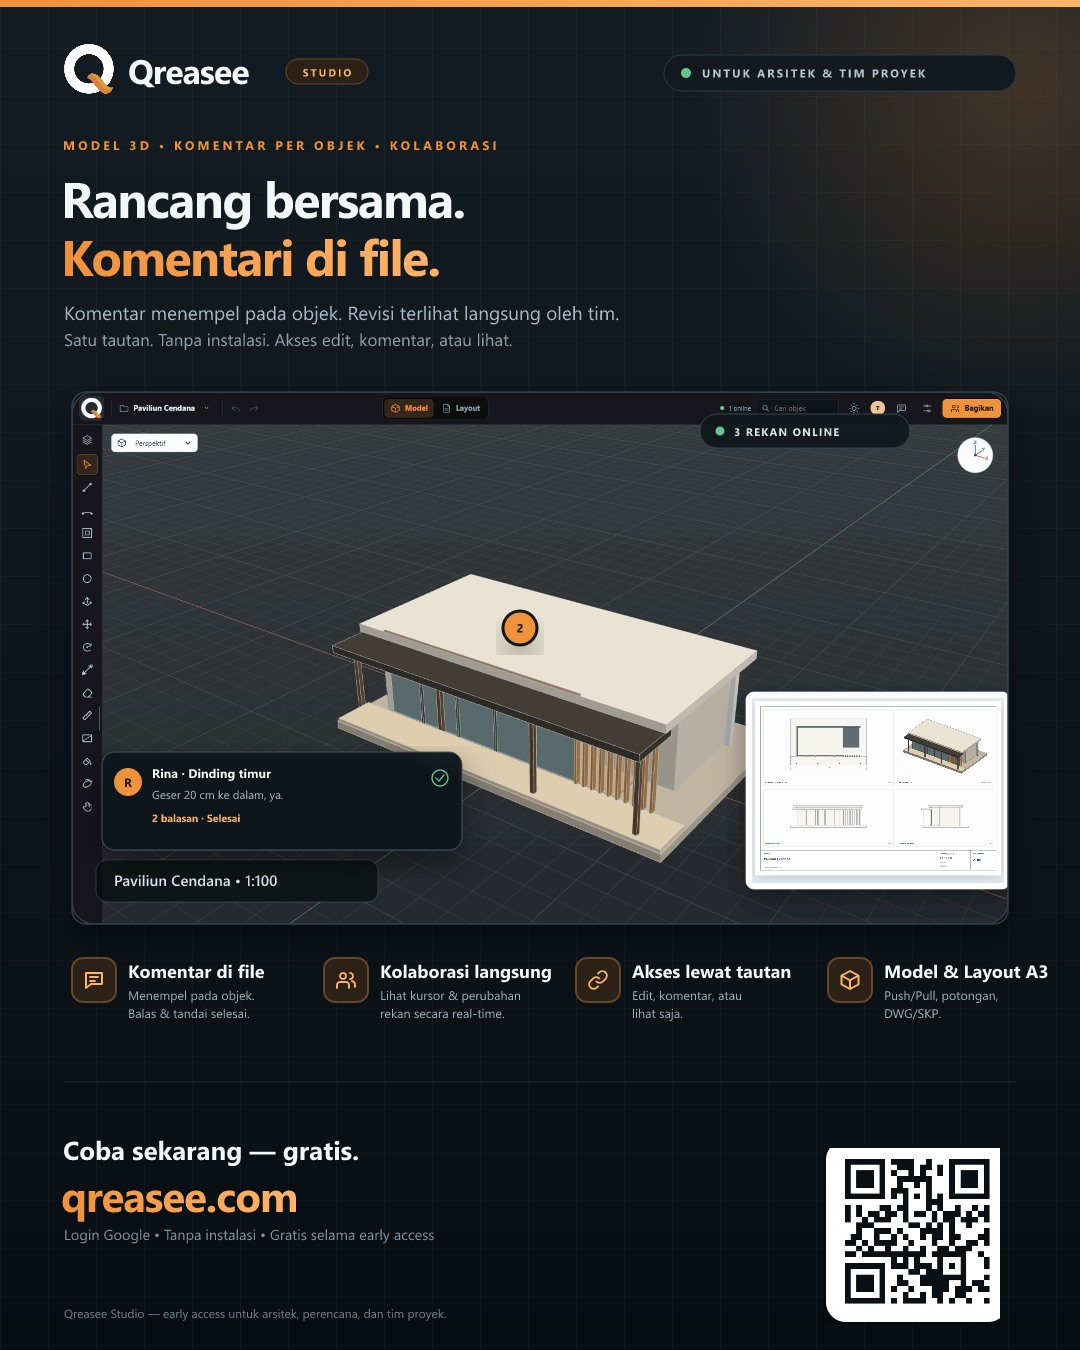
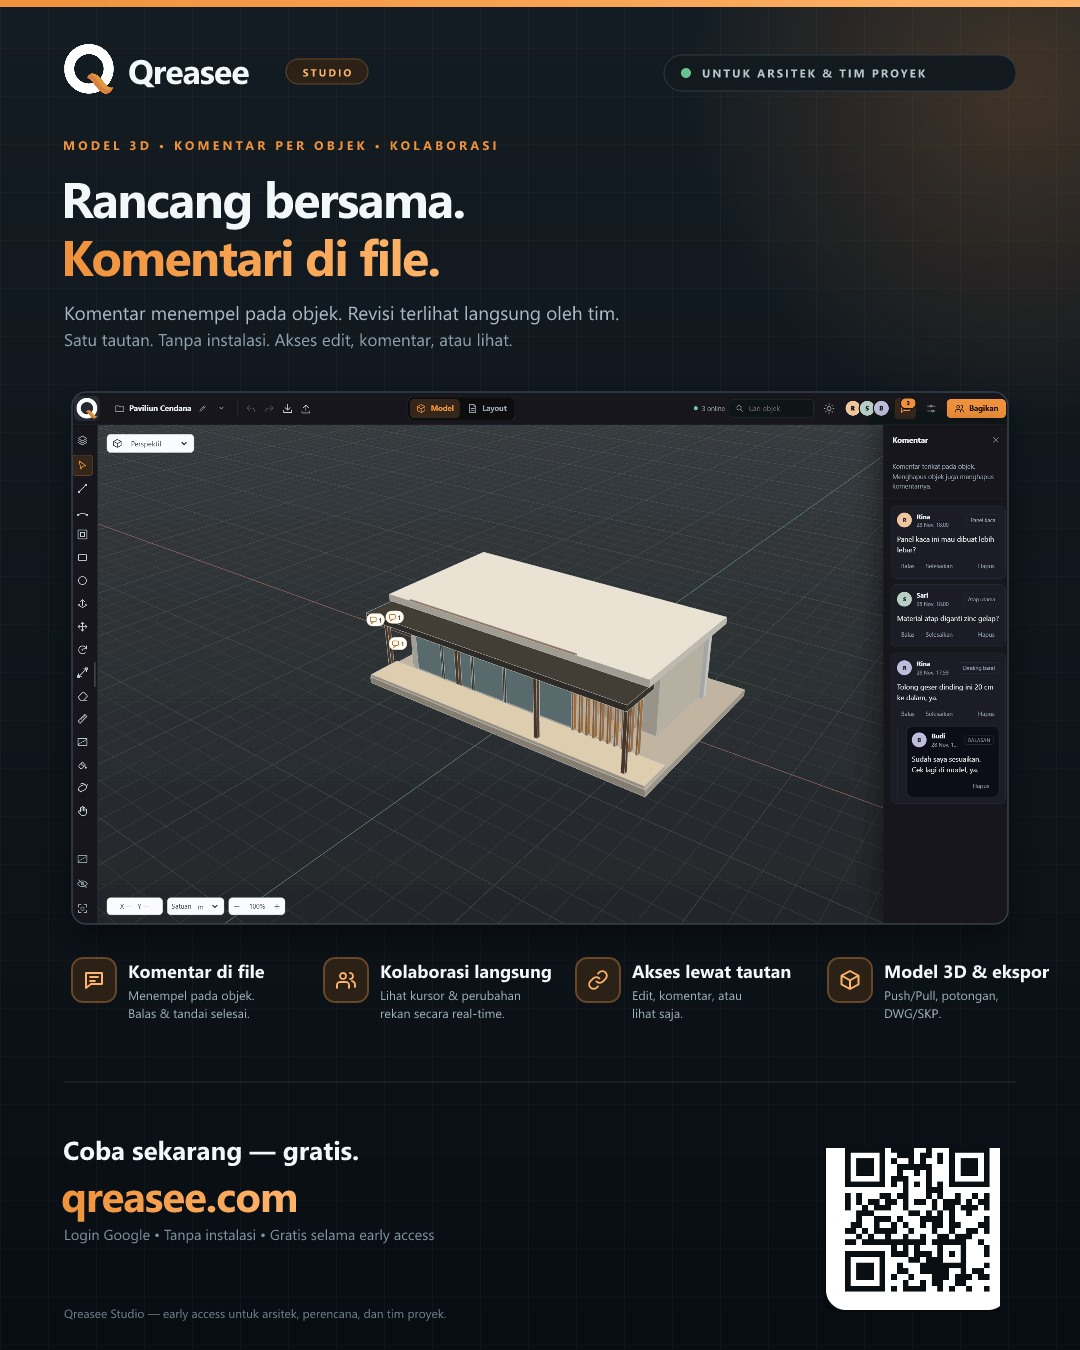
Show live comment collaboration in the preview art
Replace the layout-heavy screenshot in the social image and WhatsApp poster with a model view showing the comments panel and three active collaborators. Update the preview alt text and cache-busting version.

diff --git a/web/index.html b/web/index.html
@@ -17,17 +17,17 @@
   <meta property="og:title" content="Qreasee — Rancang bersama, komentari di file">
   <meta property="og:description" content="Komentar menempel pada objek, perubahan terlihat langsung, dan akses diatur lewat satu tautan. Model 3D + layout A3 di browser, tanpa instalasi.">
   <meta property="og:url" content="https://qreasee.com/">
-  <meta property="og:image" content="https://qreasee.com/og-image.png?v=2">
-  <meta property="og:image:secure_url" content="https://qreasee.com/og-image.png?v=2">
+  <meta property="og:image" content="https://qreasee.com/og-image.png?v=3">
+  <meta property="og:image:secure_url" content="https://qreasee.com/og-image.png?v=3">
   <meta property="og:image:type" content="image/png">
   <meta property="og:image:width" content="1200">
   <meta property="og:image:height" content="630">
-  <meta property="og:image:alt" content="Qreasee Studio menampilkan model 3D dengan penanda komentar, kolaborasi tim, dan lembar Layout A3.">
+  <meta property="og:image:alt" content="Qreasee Studio menampilkan model 3D, panel komentar, dan tiga rekan yang sedang berkolaborasi di file yang sama.">
   <meta property="og:locale" content="id_ID">
   <meta name="twitter:card" content="summary_large_image">
   <meta name="twitter:title" content="Qreasee — Rancang bersama, komentari di file">
   <meta name="twitter:description" content="Komentar per objek, kolaborasi real-time, dan akses lewat tautan. Model 3D + layout A3 di browser, tanpa instalasi.">
-  <meta name="twitter:image" content="https://qreasee.com/og-image.png?v=2">
+  <meta name="twitter:image" content="https://qreasee.com/og-image.png?v=3">
   <link rel="stylesheet" href="/studio.css">
   <script src="/line-geometry.js" defer></script>
   <script src="/studio.js" defer></script>
